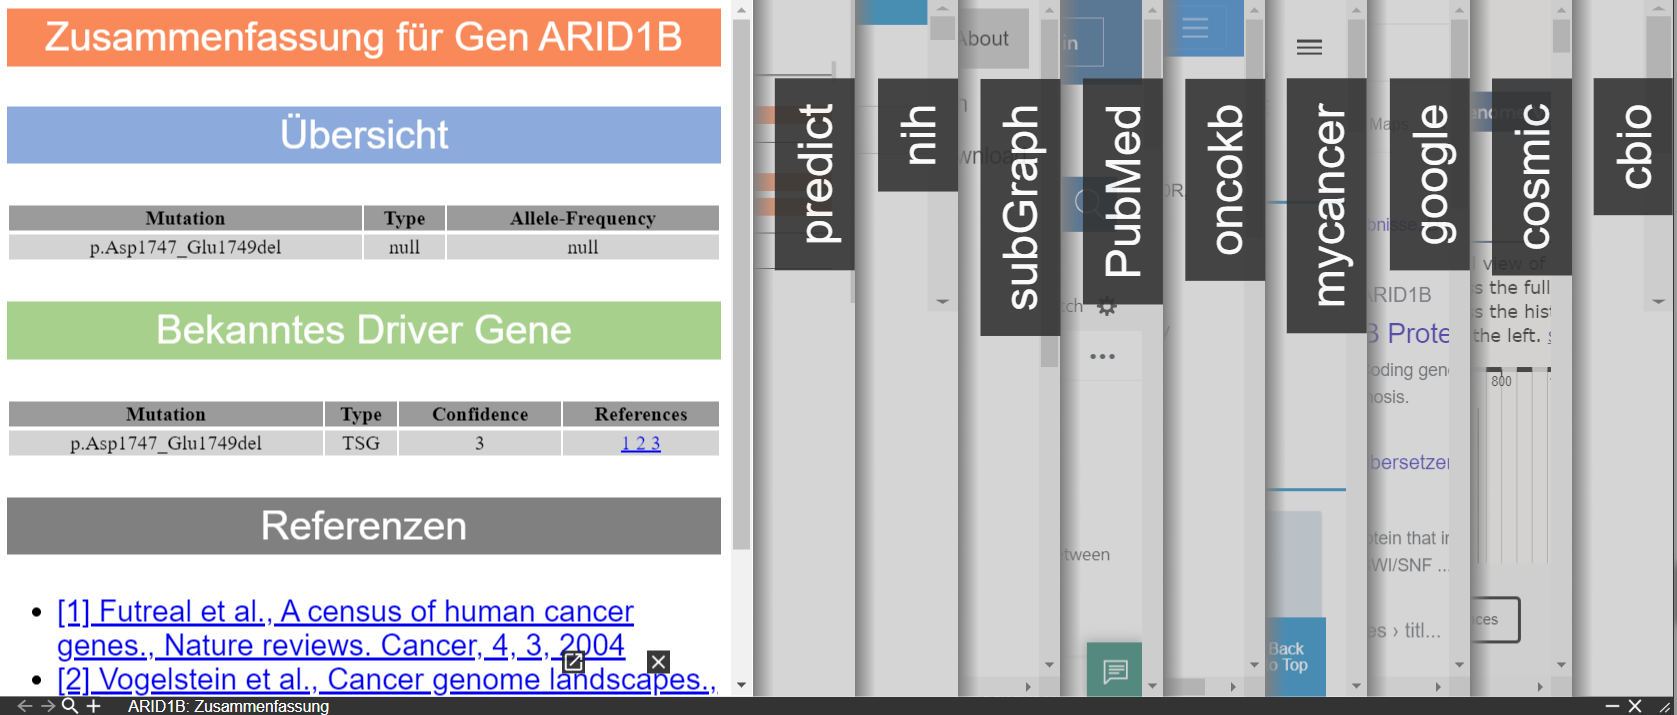
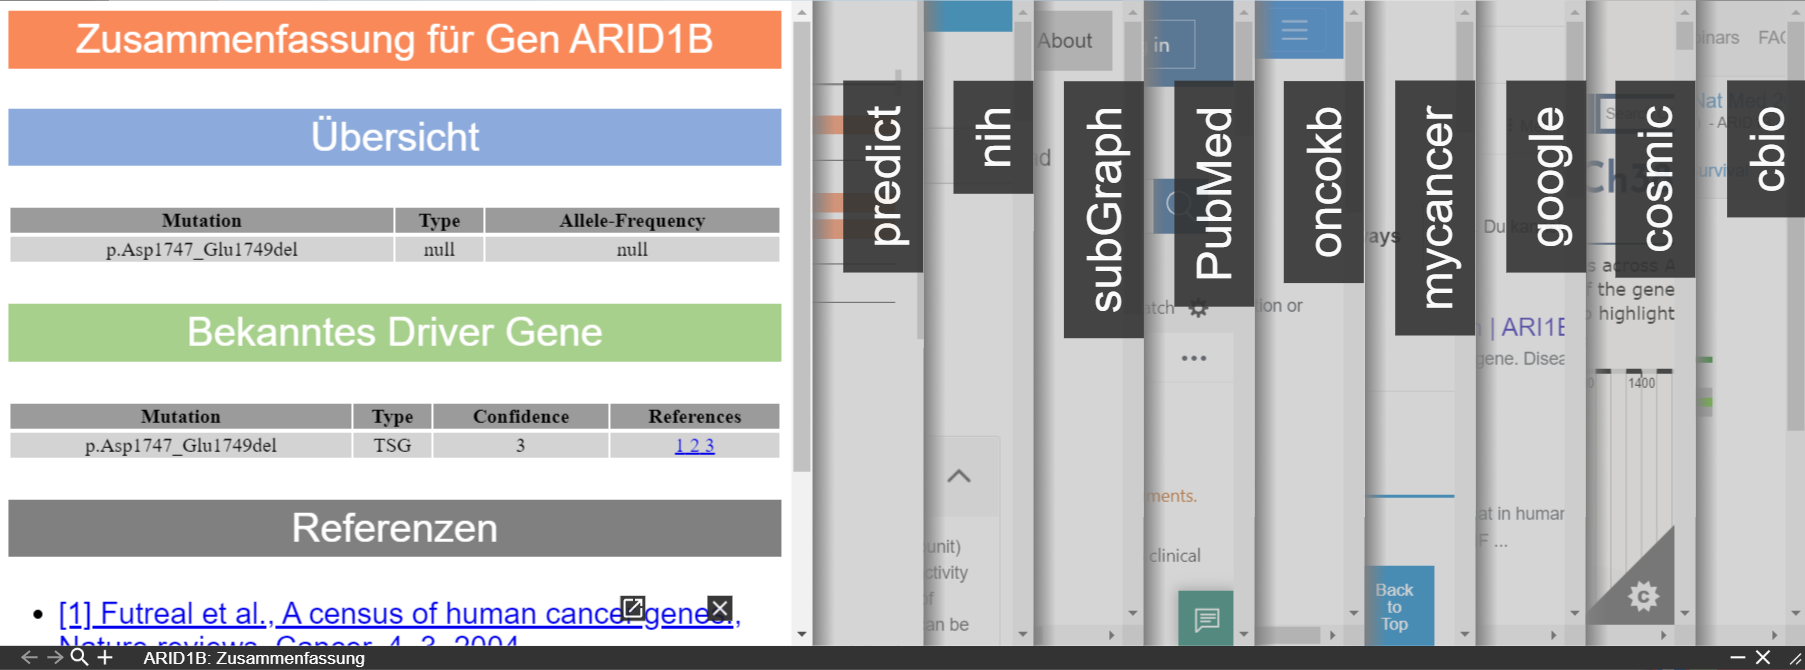
pubmed now interactive

diff --git a/Mockups/MockupFour/indexMockupFour_B.html b/Mockups/MockupFour/indexMockupFour_B.html
@@ -376,9 +376,25 @@
           <img src="../../Assets/Icons/close.png" style="width: 100%; height: 100%;">
         </div>
       </div>
+
+      <div id="document_pubmed" class="source draggable" allowDrag="on" scale="1" style="width: 30%;">
+        <img src="../Assets/Images/pubmed.png" alt="" style="pointer-events: none; height: 100%; width: 100%;">
+        <div id="resizeButtonPubmed" class="buttonResize">
+          <img src="../../Assets/Icons/resize.png" style="width: 100%; height: 100%;" alt="">
+        </div>
+        <div id="fullscreenButtonPubmed" class="buttonFlat2" onclick = "fullscreenClicked(event,this)" style="top:5px; right: 5px;">
+          <img id="imgVisite" src="../../Assets/Icons/fullscreen.png" style="width: 100%; height: 100%;">
+        </div>
+        <div id="minimizeButtonPubmed" class="buttonFlat2" onclick = "minimizedClicked(event,this)" style="top:5px; right: 60px;">
+          <img id="imgVisite" src="../../Assets/Icons/fullscreen_exit.png" style="width: 100%; height: 100%;">
+        </div>
+        <div id="closeButtonPubmed" class="buttonFlat2" onclick = "closeClicked(event,this)" type = "doc" style="top:5px; right: 115px;">
+          <img src="../../Assets/Icons/close.png" style="width: 100%; height: 100%;">
+        </div>
+      </div>
       
       <div id="arid1b_sources" class="source draggable" allowDrag="on" scale="1" style="width: 50%;">
-        <img src="../Assets/Images/arid1b.png" alt="" style="height: 100%; width: 100%; pointer-events: none;">
+        <img id="aridIMG" src="../Assets/Images/arid1b.png" alt="" style="height: 100%; width: 100%; pointer-events: none;">
         <div id="resizeButtonArid" class="buttonResize">
           <img src="../../Assets/Icons/resize.png" style="width: 100%; height: 100%;" alt="">
         </div>
@@ -391,6 +407,11 @@
         <div id="closeButtonArid" class="buttonFlat2" onclick = "closeClicked(event,this)" type = "gene" button="arid1b_button" style="top:5px; right: 115px;">
           <img src="../../Assets/Icons/close.png" style="width: 100%; height: 100%;">
         </div>
+        <div id="expandPubmedButton" class="buttonFlat2" onclick = "expandPubmed(event,this)" type = "gene" button="arid1b_button" style="bottom:0%; right: 30%; visibility: hidden;">
+          <img src="../../Assets/Icons/launch.png" style="width: 100%; height: 100%;">
+        </div>
+        <div id="buttonPubmed" onclick = "switchPubmed(event,this)" type = "gene" button="arid1b_button" style="position: absolute; background: chartreuse; top:0%; left: 63%; width: 7%; height: 100%; opacity: 0;"></div>
+        <div id="buttonSumary" onclick = "switchSummary(event,this)" type = "gene" button="arid1b_button" style="position: absolute; background: cornflowerblue; top:0%; left: 0%; width: 7%; height: 100%; opacity: 0;"></div>
       </div>
 
       <div id="srms_sources" class="source draggable" allowDrag="on" scale="1" style="width: 50%;">
@@ -554,6 +575,7 @@
       $( "#zdhhc13_sources" ).hide()
       $( "#document_img" ).hide()
       $( "#document_text" ).hide()
+      $( "#document_pubmed" ).hide()
 
       $( "#contextmenu" ).hide()
 
@@ -934,6 +956,23 @@
         // }
       } */
 
+      function expandPubmed(e,element){   
+        var doc = document.getElementById("document_pubmed");     
+        $( "#document_pubmed" ).show()
+        bringToFront(doc)
+        doc.style.left = e.clientX+"px"
+        doc.style.top = (e.clientY-100)+"px"
+      }
+      function switchPubmed(e,element){
+        document.getElementById("aridIMG").src = "../Assets/Images/arid1b_pubmed.png"
+        document.getElementById("expandPubmedButton").style.visibility = "visible"
+
+      }
+      function switchSummary(e,element){
+        document.getElementById("aridIMG").src = "../Assets/Images/arid1b.png"
+        document.getElementById("expandPubmedButton").style.visibility = "hidden"
+      }
+
       function closeClicked(e,element){
         let target = element.parentNode
         if(element.getAttribute("type")=="gene"){
@@ -1121,6 +1160,7 @@
 
       resizeElement(document.getElementById("resizeButtonDocument"))
       resizeElement(document.getElementById("resizeButtonImg"))
+      resizeElement(document.getElementById("resizeButtonPubmed"))
 
       function resizeElement(button) {
         let elmnt = button.parentNode
